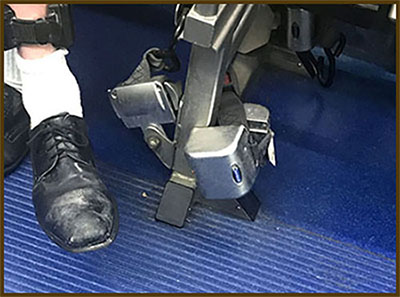
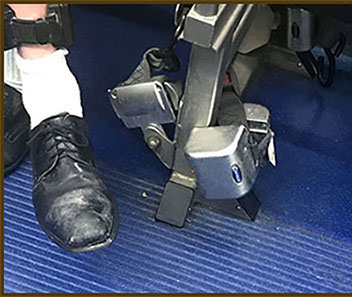
up

diff --git a/Glenda_midterm/4.html b/Glenda_midterm/4.html
@@ -25,7 +25,7 @@
     
         <main> 
             <figure class="imgcontainer">
-                  <img class= "thisimage" src="images/ankle%20copy.jpg"style="width:500x: height:371px;"alt="CTA Ankle Bracelet">
+                  <img class= "thisimage" src="images/ankle%20copy.jpg"style="width:352x: height:297px;"alt="CTA Ankle Bracelet">
                   <img class= "thisimage" src="images/busstop.png"style="width: 375px: height:445px;"alt="CTA Bus Shelter">
                   <img class= "thisimage" src="images/minister.png" style="width: 500px: height:596px;" alt="Minister">
                   <img class= "thisimage" src="images/restaurant.png" style="width: 500px: height: 542px;"alt="Beatrix Market">
